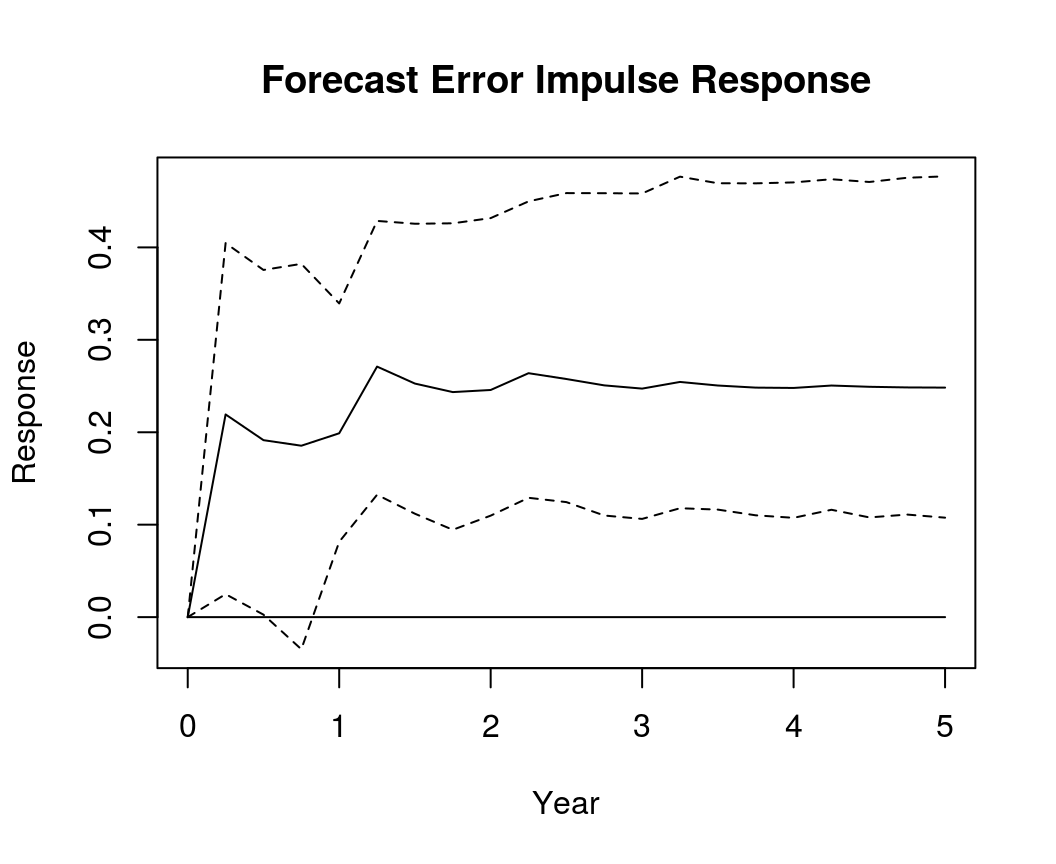
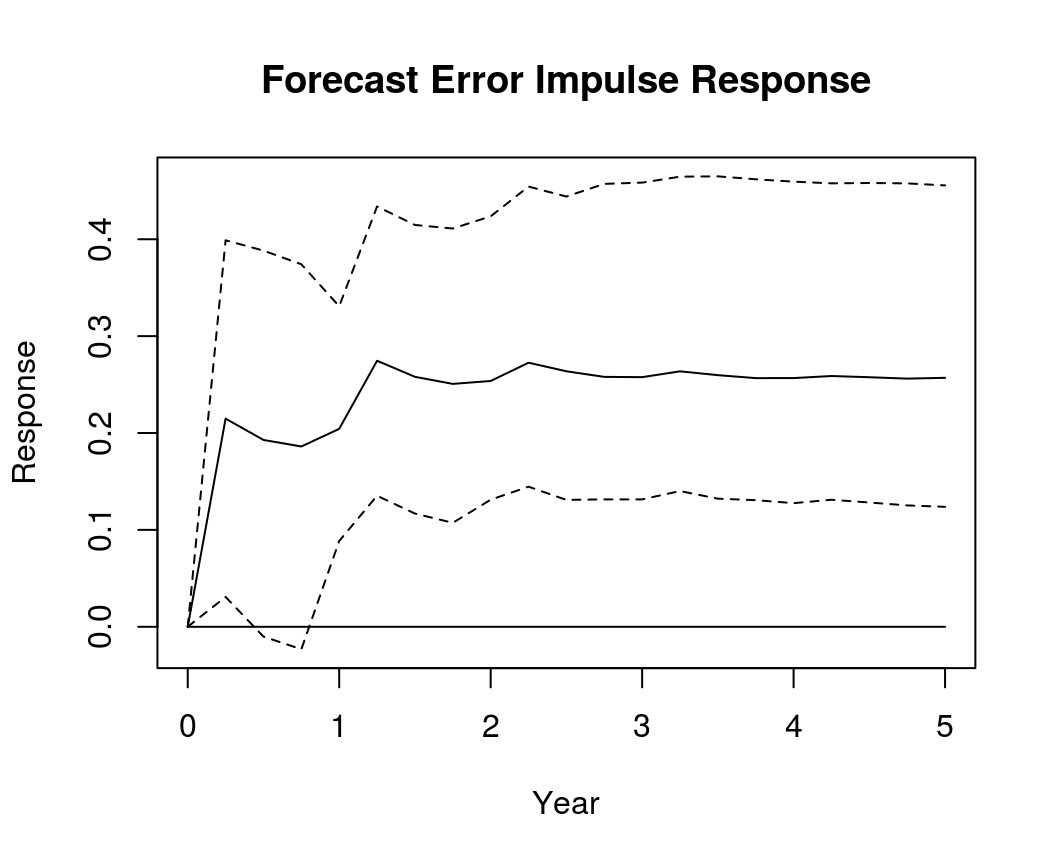
Update bvec

diff --git a/public/timeseries/bvec/index.html b/public/timeseries/bvec/index.html
@@ -138,7 +138,7 @@ x &lt;- data$X</code></pre>
 <div id="estimation" class="section level2">
 <h2>Estimation</h2>
 <pre class="r"><code># Reset random number generator for reproducibility
-set.seed(1234567)
+set.seed(7654321)
 
 iter &lt;- 10000 # Number of iterations of the Gibbs sampler
 burnin &lt;- 5000 # Number of burn-in draws
@@ -223,11 +223,11 @@ dimnames(Gamma) &lt;- list(dimnames(y)[[1]], dimnames(x)[[1]]) # Rename matrix d
 
 round(Gamma, 3) # Print</code></pre>
 <pre><code>##      d.R.1 d.Dp.1  d.R.2 d.Dp.2 d.R.3 d.Dp.3 const season.1 season.2
-## d.R  0.262 -0.176 -0.021 -0.199 0.222 -0.096 0.002    0.001    0.009
-## d.Dp 0.079 -0.386  0.005 -0.422 0.024 -0.362 0.011   -0.034   -0.018
+## d.R  0.267 -0.187 -0.017 -0.207 0.225 -0.099 0.002    0.001    0.009
+## d.Dp 0.074 -0.383  0.000 -0.421 0.025 -0.361 0.011   -0.034   -0.018
 ##      season.3
 ## d.R     0.000
-## d.Dp   -0.016</code></pre>
+## d.Dp   -0.017</code></pre>
 <pre class="r"><code>beta &lt;- rowMeans(t(t(draws_beta) / t(draws_beta)[, 1])) # Obtain means for every row
 beta &lt;- matrix(beta, k_w) # Transform mean vector into a matrix
 beta &lt;- round(beta, 3) # Round values
@@ -236,7 +236,7 @@ dimnames(beta) &lt;- list(dimnames(w)[[1]], NULL) # Rename matrix dimensions
 beta # Print</code></pre>
 <pre><code>##        [,1]
 ## l.R   1.000
-## l.Dp -8.894</code></pre>
+## l.Dp -3.969</code></pre>
 <pre class="r"><code>Sigma &lt;- rowMeans(draws_sigma) # Obtain means for every row
 Sigma &lt;- matrix(Sigma, k) # Transform mean vector into a matrix
 Sigma &lt;- round(Sigma * 10^4, 2) # Round values
@@ -244,7 +244,7 @@ dimnames(Sigma) &lt;- list(dimnames(y)[[1]], dimnames(y)[[1]]) # Rename matrix d
 
 Sigma # Print</code></pre>
 <pre><code>##        d.R  d.Dp
-## d.R   0.30 -0.02
+## d.R   0.29 -0.02
 ## d.Dp -0.02  0.27</code></pre>
 </div>
 <div id="bvec-objects" class="section level2">

diff --git a/content/timeseries/bvec.html b/content/timeseries/bvec.html
@@ -35,7 +35,7 @@ x &lt;- data$X</code></pre>
 <div id="estimation" class="section level2">
 <h2>Estimation</h2>
 <pre class="r"><code># Reset random number generator for reproducibility
-set.seed(1234567)
+set.seed(7654321)
 
 iter &lt;- 10000 # Number of iterations of the Gibbs sampler
 burnin &lt;- 5000 # Number of burn-in draws
@@ -120,11 +120,11 @@ dimnames(Gamma) &lt;- list(dimnames(y)[[1]], dimnames(x)[[1]]) # Rename matrix d
 
 round(Gamma, 3) # Print</code></pre>
 <pre><code>##      d.R.1 d.Dp.1  d.R.2 d.Dp.2 d.R.3 d.Dp.3 const season.1 season.2
-## d.R  0.262 -0.176 -0.021 -0.199 0.222 -0.096 0.002    0.001    0.009
-## d.Dp 0.079 -0.386  0.005 -0.422 0.024 -0.362 0.011   -0.034   -0.018
+## d.R  0.267 -0.187 -0.017 -0.207 0.225 -0.099 0.002    0.001    0.009
+## d.Dp 0.074 -0.383  0.000 -0.421 0.025 -0.361 0.011   -0.034   -0.018
 ##      season.3
 ## d.R     0.000
-## d.Dp   -0.016</code></pre>
+## d.Dp   -0.017</code></pre>
 <pre class="r"><code>beta &lt;- rowMeans(t(t(draws_beta) / t(draws_beta)[, 1])) # Obtain means for every row
 beta &lt;- matrix(beta, k_w) # Transform mean vector into a matrix
 beta &lt;- round(beta, 3) # Round values
@@ -133,7 +133,7 @@ dimnames(beta) &lt;- list(dimnames(w)[[1]], NULL) # Rename matrix dimensions
 beta # Print</code></pre>
 <pre><code>##        [,1]
 ## l.R   1.000
-## l.Dp -8.894</code></pre>
+## l.Dp -3.969</code></pre>
 <pre class="r"><code>Sigma &lt;- rowMeans(draws_sigma) # Obtain means for every row
 Sigma &lt;- matrix(Sigma, k) # Transform mean vector into a matrix
 Sigma &lt;- round(Sigma * 10^4, 2) # Round values
@@ -141,7 +141,7 @@ dimnames(Sigma) &lt;- list(dimnames(y)[[1]], dimnames(y)[[1]]) # Rename matrix d
 
 Sigma # Print</code></pre>
 <pre><code>##        d.R  d.Dp
-## d.R   0.30 -0.02
+## d.R   0.29 -0.02
 ## d.Dp -0.02  0.27</code></pre>
 </div>
 <div id="bvec-objects" class="section level2">
